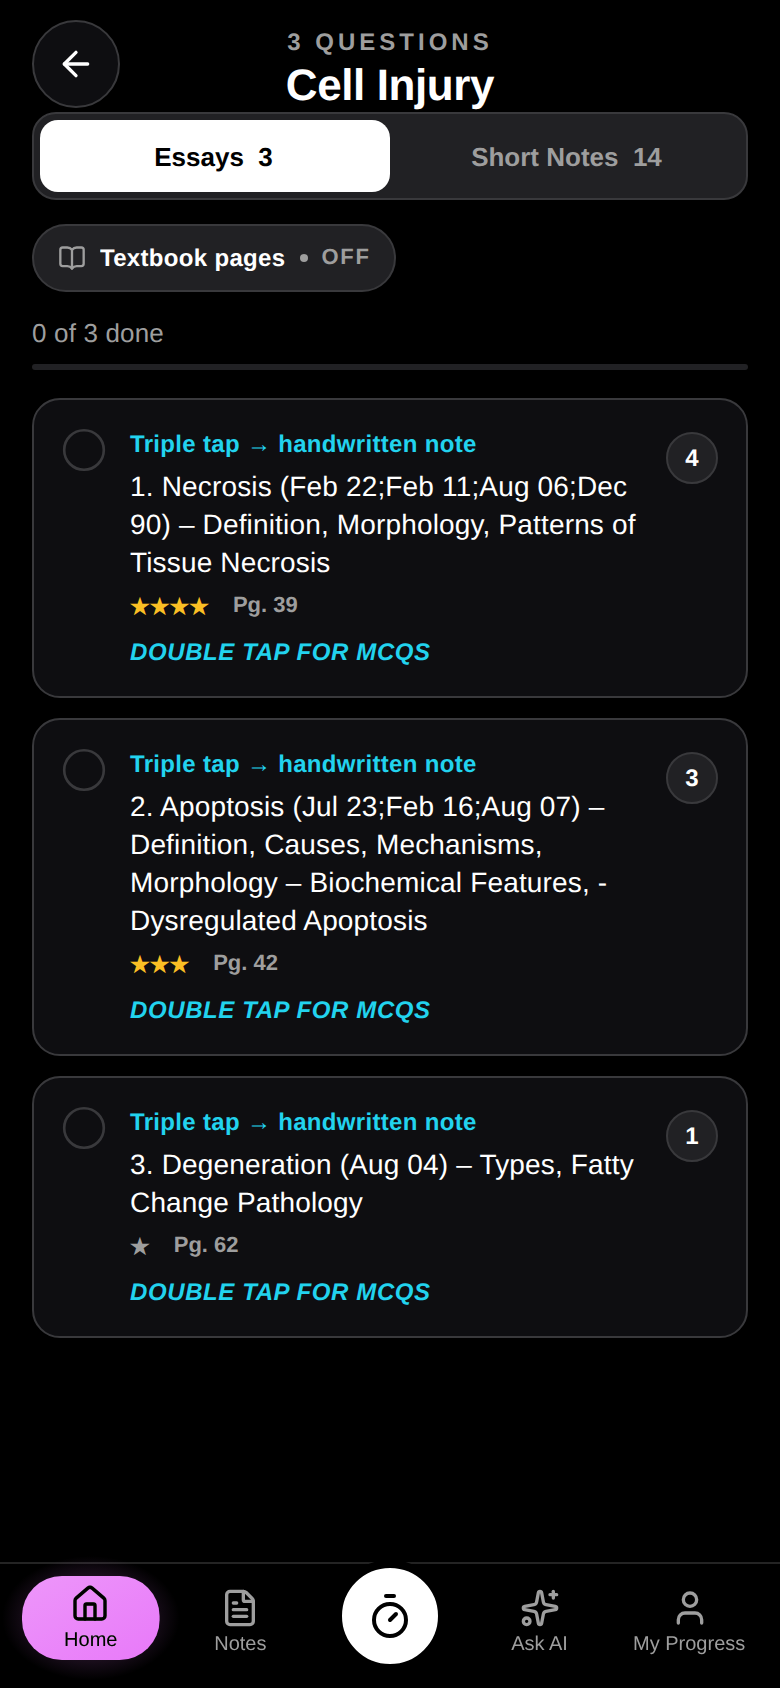
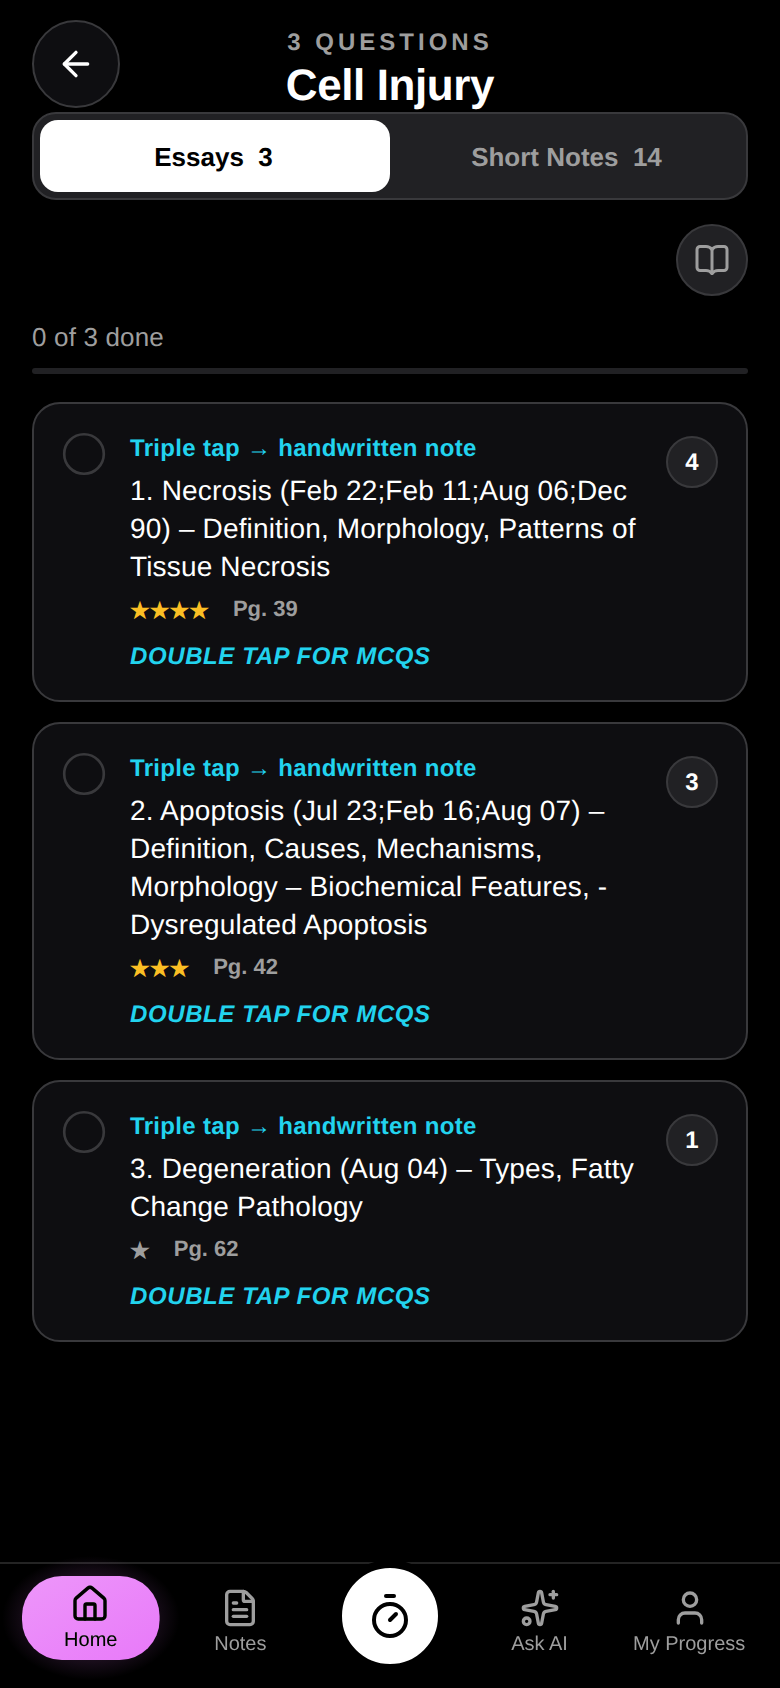
feat(pages): the textbook control is a round button on the right
The owner circled the filter button in a screenshot and asked for this one to
look like that: a round icon button, right-hand side, under the tabs.

It was a wide pill hard against the left margin reading "Textbook pages · ON" —
a control that stated its own name and its state in words and took a whole line
to do it. That is a lot of furniture for a quick setting, and the app already
draws quick settings as circles: the theme button on Home is a circle of
exactly this size. Now so is this, and the fill carries the state the way a
round toggle does instead of the word "ON".

36dp drawn, with `hitSlop` taking it past the 44dp minimum rather than padding,
which would have changed how big the circle looks.

**The spoken label had to grow as the visible one shrank.** A round button with
no text on it announces nothing but its label, and the book's name used to be
printed on the pill — so the label now says "Textbook page numbers are on,
showing <book>. Turn them off." rather than "Hide textbook page numbers". A
sighted reader lost a word to a redesign; a TalkBack user would have lost the
book.

`preview/page-ref-shots.mjs` failed on the old label the moment the pill became
a circle, which is the harness working as intended — it finds controls the way a
screen reader does, so a control it cannot find is one TalkBack cannot announce.
Updated, re-run, and the six captures are in `screenshots/`.

Claude-Session: https://claude.ai/code/session_01UVsV31S7j2CweanzFXXKox

diff --git a/mobile/src/screens/BrowseNodeScreen.tsx b/mobile/src/screens/BrowseNodeScreen.tsx
@@ -537,20 +537,34 @@ export default function BrowseNodeScreen() {
             />
             {/* The page-reference switch.
               *
-              * A pill that reads on or off at a glance, like a quick setting,
-              * because that is what it is: it turns the chips on every row on
-              * and off, and while it is off nothing here asks the network about
-              * page numbers at all.
+              * A round icon button on the RIGHT, not a wide pill on the left.
+              *
+              * It began as a pill reading "Textbook pages - ON", which stated
+              * its own name and state in words and took a whole line to do it,
+              * hard against the left margin under the tabs. That is a lot of
+              * furniture for a quick setting, and the app's owner said so.
+              * This is the same control drawn the way the rest of the app draws
+              * quick settings — the theme button on Home is a circle of exactly
+              * this size — so it reads as a control rather than as a banner.
+              *
+              * State is carried by the fill, which is what a round toggle has
+              * instead of a word: accent when on, card when off. The label is
+              * unchanged and still says what it does and what state it is in,
+              * because that is what TalkBack reads and it is the only thing a
+              * screen reader gets once the word "ON" is gone from the screen.
               */}
             {questions.length > 0 ? (
               <Touchable
                 label={
                   showPageRefs
-                    ? 'Hide textbook page numbers'
-                    : 'Show textbook page numbers'
+                    ? `Textbook page numbers are on${
+                        myBookLabel ? `, showing ${myBookLabel}` : ''
+                      }. Turn them off.`
+                    : 'Textbook page numbers are off. Turn them on.'
                 }
                 state={{ checked: showPageRefs }}
                 onPress={() => setSetting('showPageRefs', !showPageRefs)}
+                hitSlop={10}
                 style={[
                   styles.pageToggle,
                   {
@@ -562,40 +576,9 @@ export default function BrowseNodeScreen() {
                 ]}
               >
                 <BookOpen
-                  size={14}
+                  size={18}
                   color={showPageRefs ? colors.primaryText : colors.textMuted}
                 />
-                <Text
-                  numberOfLines={1}
-                  style={[
-                    styles.pageToggleText,
-                    {
-                      color: showPageRefs ? colors.primaryText : colors.text,
-                    },
-                  ]}
-                >
-                  {showPageRefs && myBookLabel ? myBookLabel : 'Textbook pages'}
-                </Text>
-                <View
-                  style={[
-                    styles.pageToggleDot,
-                    {
-                      backgroundColor: showPageRefs
-                        ? colors.primaryText
-                        : colors.textMuted,
-                    },
-                  ]}
-                />
-                <Text
-                  style={[
-                    styles.pageToggleState,
-                    {
-                      color: showPageRefs ? colors.primaryText : colors.textMuted,
-                    },
-                  ]}
-                >
-                  {showPageRefs ? 'ON' : 'OFF'}
-                </Text>
               </Touchable>
             ) : null}
 
@@ -850,27 +833,16 @@ const styles = StyleSheet.create({
     marginTop: 12,
   },
   pageToggle: {
-    flexDirection: 'row',
+    // A circle, on the right. 36dp drawn; `hitSlop` carries it past the 44dp
+    // minimum without padding that would change how big the circle looks.
     alignItems: 'center',
-    alignSelf: 'flex-start',
-    gap: 7,
+    justifyContent: 'center',
+    alignSelf: 'flex-end',
+    width: 36,
+    height: 36,
     marginTop: 12,
-    borderRadius: 999,
+    borderRadius: 18,
     borderWidth: 1,
-    paddingHorizontal: 12,
-    paddingVertical: 8,
-  },
-  pageToggleText: {
-    ...typeScale.caption,
-    fontWeight: '700',
-  },
-  pageToggleDot: {
-    width: 4,
-    height: 4,
-    borderRadius: 2,
-  },
-  pageToggleState: {
-    ...typeScale.overline,
   },
   questionBar: {
     marginTop: 6,
